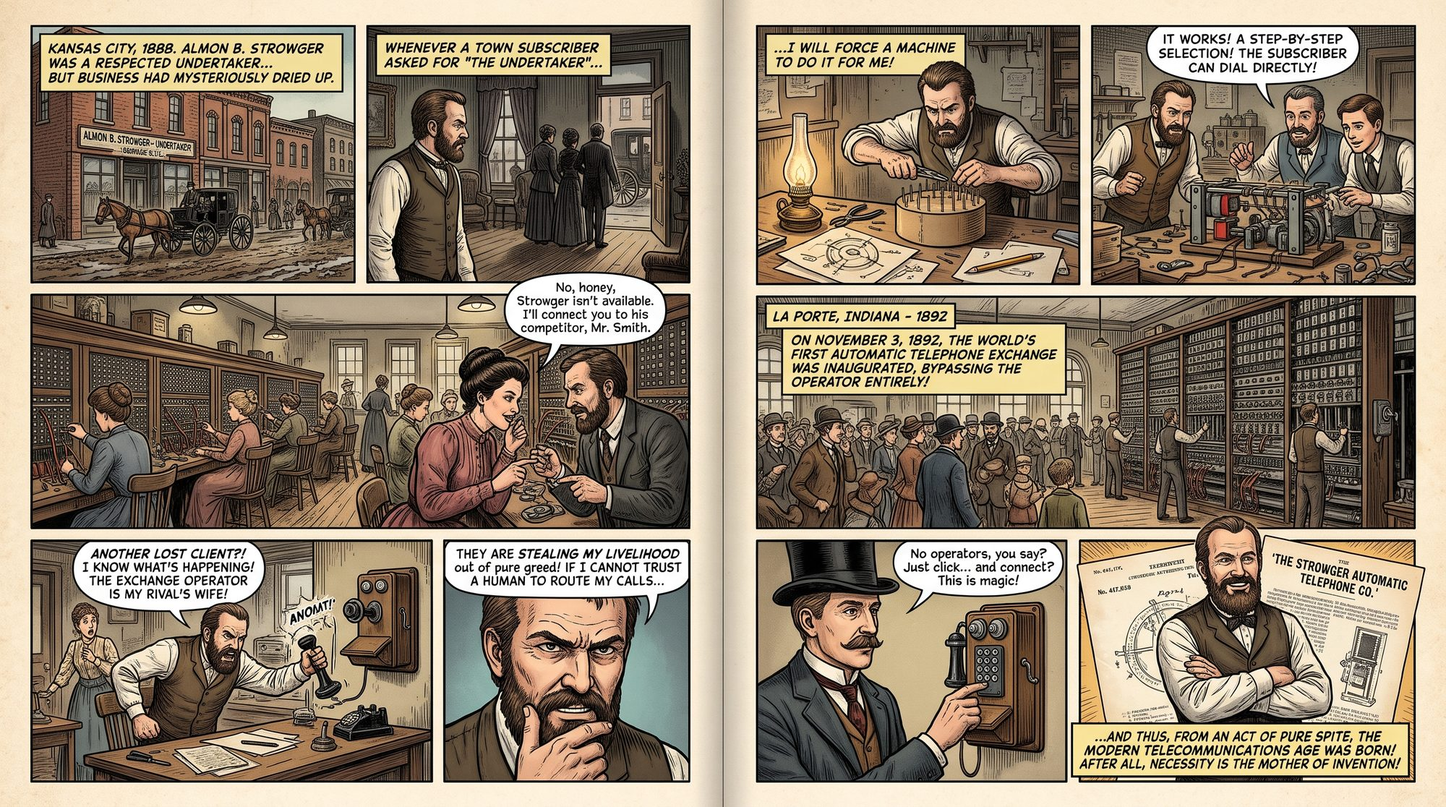
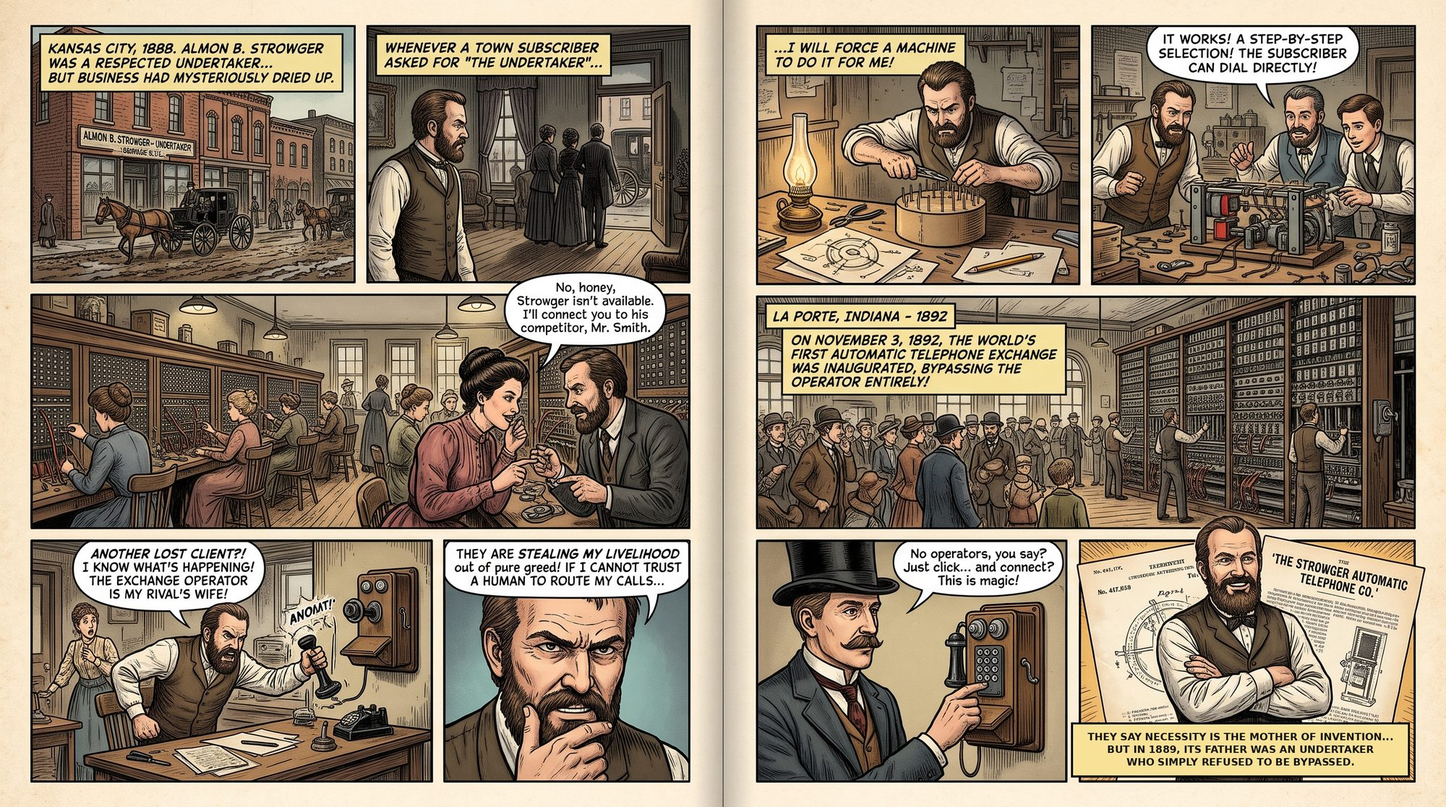
Comic: the closing line is about refusing to be bypassed, in the image and under it
Claude-Session: https://claude.ai/code/session_01973sSjYERAVFLgRCv475Vb

Changed region(s): [[0.744, 0.8835, 0.992, 0.9749]]

diff --git a/apps/web/src/components/strowger-comic.tsx b/apps/web/src/components/strowger-comic.tsx
@@ -208,7 +208,7 @@ export function StrowgerComic() {
           ))}
         </Panel>
 
-        <Panel n={6} title="Today" caption={<><b className="text-zinc-100">There is nothing more American than inventing something out of spite.</b> This dialer carries his name. No operator in the middle; your calls go where you send them.</>}>
+        <Panel n={6} title="Today" caption={<><b className="text-zinc-100">They say necessity is the mother of invention. In 1889, its father was an undertaker who refused to be bypassed.</b> This dialer carries his name. No operator in the middle; your calls go where you send them.</>}>
           <rect width="320" height="220" fill={`url(#dots6)`} />
           <rect x="30" y="40" width="260" height="150" rx="6" fill="#111318" stroke={ink} strokeWidth="3" />
           <rect x="44" y="54" width="232" height="18" rx="3" fill="#1f2937" />
@@ -231,7 +231,7 @@ export function StrowgerComic() {
           <Person x={290} y={186} scale={0.6} />
           <path d="M281,176 q9,-14 18,0" stroke={accent} strokeWidth="3" fill="none" />
           <text x="160" y="208" textAnchor="middle" fontFamily="Georgia, serif" fontSize="11" fontStyle="italic" fill={ink}>
-            Strowger, est. 1889 (out of spite)
+            Strowger, est. 1889 (he refused to be bypassed)
           </text>
         </Panel>
       </div>

diff --git a/apps/web/src/app/page.tsx b/apps/web/src/app/page.tsx
@@ -35,8 +35,8 @@ export default function Home() {
             <img src={`/${COMIC}`} alt="The story of Almon B. Strowger, the undertaker who invented the automatic telephone exchange out of spite" className="block h-auto w-full" />
           </div>
           <p className="mt-4 border-l-[3px] border-[#c8472b] pl-3 text-base text-zinc-200">
-            <b className="text-zinc-100">There is nothing more American than inventing something out of spite.</b> This dialer carries his name: no operator in the middle, your calls go where you
-            send them.
+            <b className="text-zinc-100">They say necessity is the mother of invention. In 1889, its father was an undertaker who simply refused to be bypassed.</b> This dialer carries his
+            name: no operator in the middle, your calls go where you send them.
           </p>
         </section>
       ) : (
